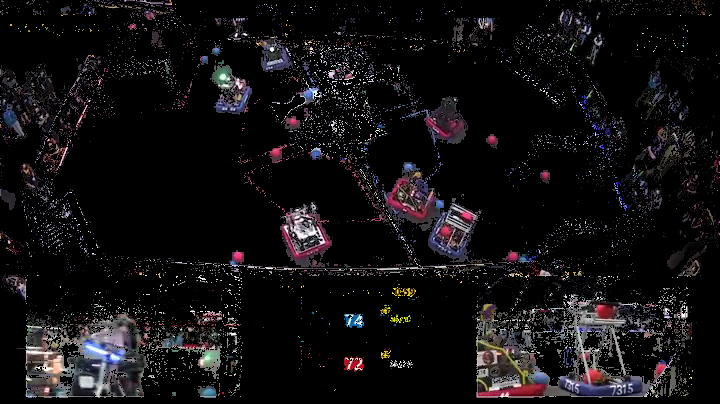
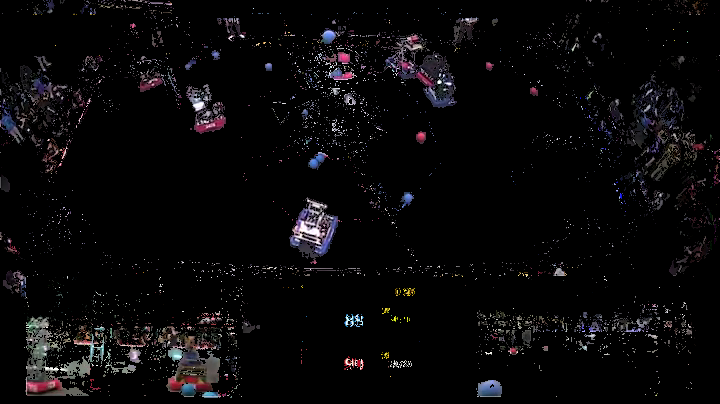
chore: small improvement to default value for removeBackground threshold factor

diff --git a/src/video_background_extractor/VideoBackgroundExtractor.py b/src/video_background_extractor/VideoBackgroundExtractor.py
@@ -232,7 +232,7 @@ class VideoBackgroundExtractor:
   def removeBackground(
     self,
     image: Image,
-    thresholdFactor: float = 1,
+    thresholdFactor: float = 2,
     differenceIndexLimit: float = 0.2
   ) -> Image:
     """
